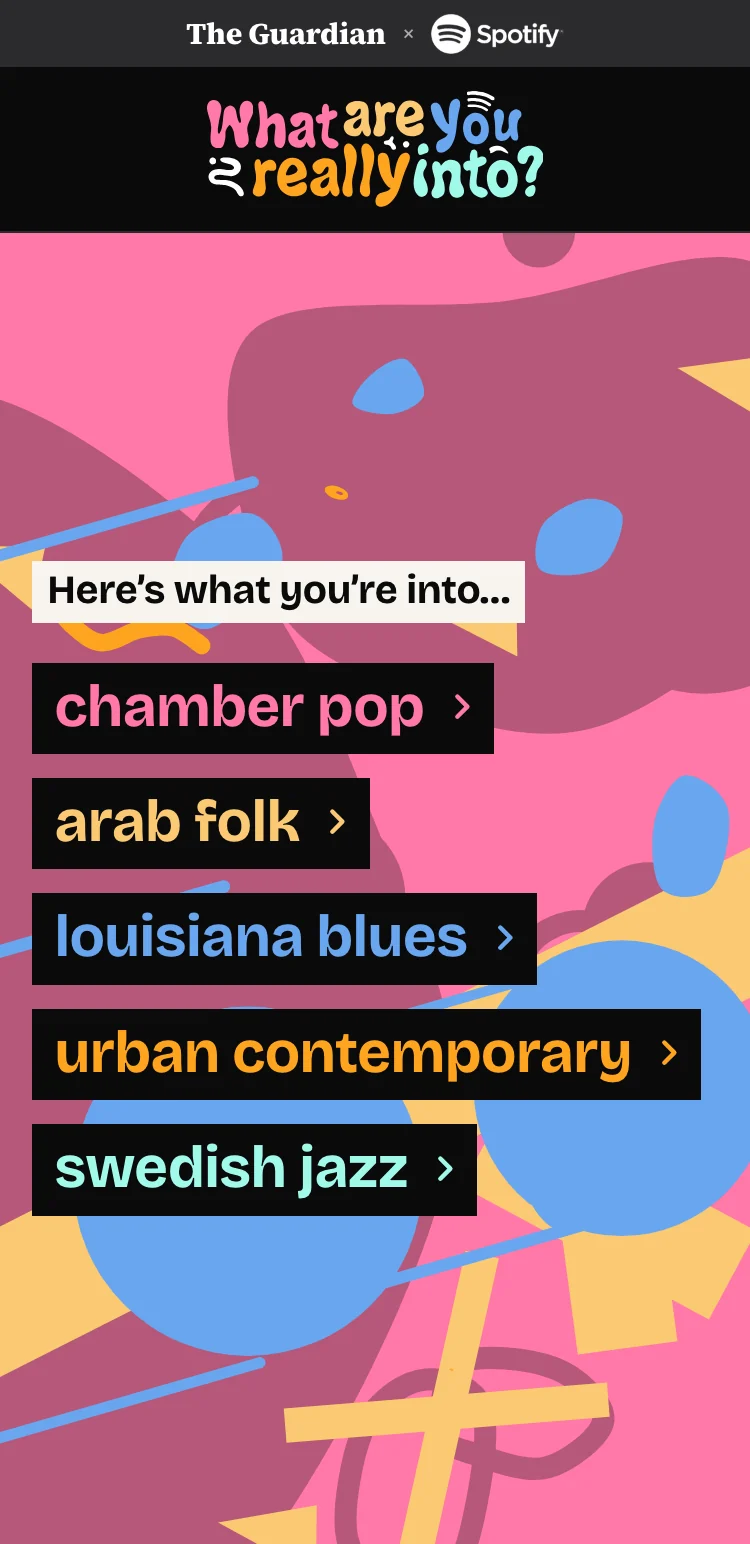
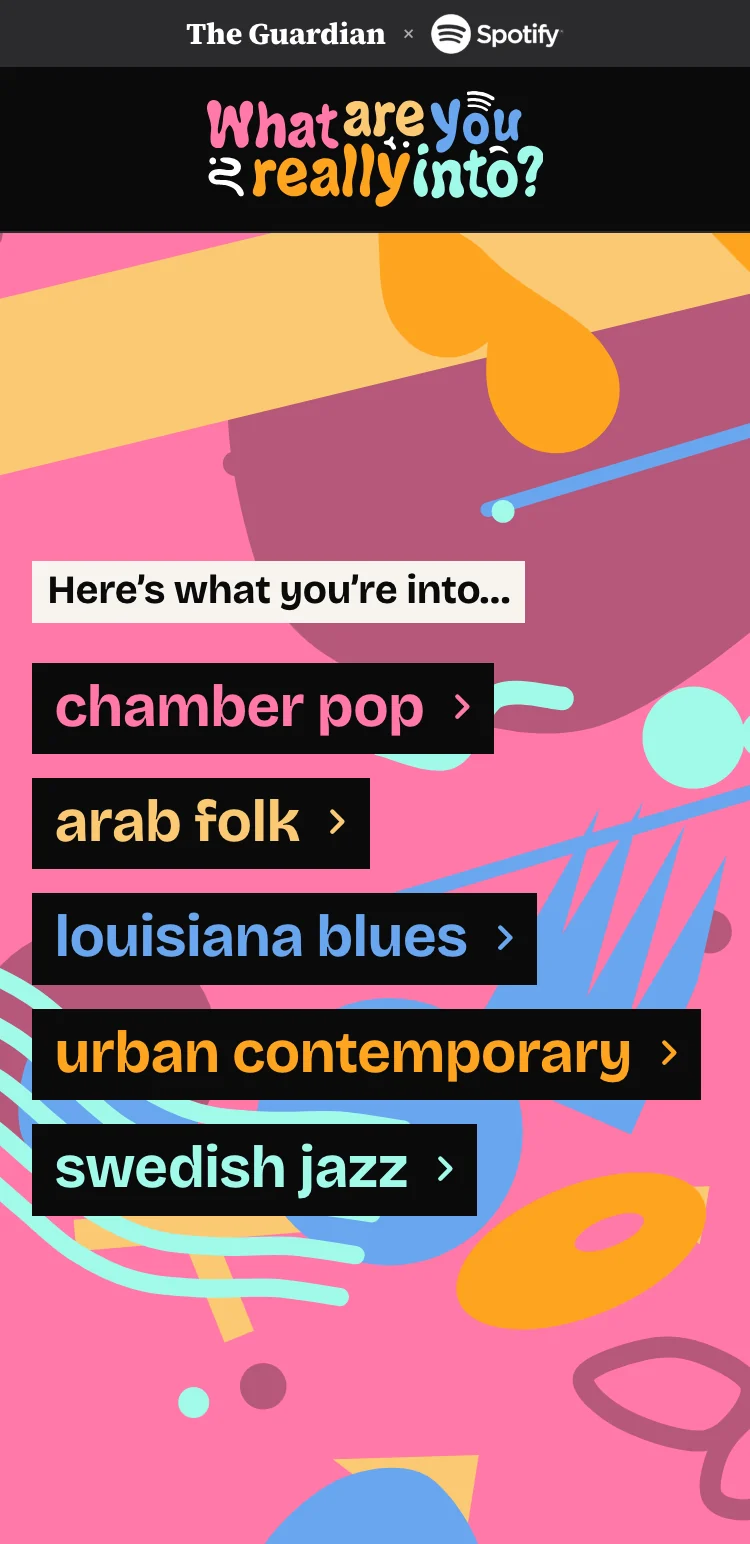
Add files via upload

diff --git a/index.html b/index.html
@@ -383,10 +383,6 @@ setTimeout(function(){ document.documentElement.setAttribute('data-dc-ready','')
      html[data-smart-side] only while Smart is on screen (for the shared nav). */
   [data-role="cv-bg"][data-smart="true"] { transition:opacity 500ms ease, background-color 600ms ease !important; }
   html[data-smart-bg="zurich"] [data-role="cv-bg"][data-smart="true"] { background:#262e4a !important; }
-  /* AKQA on tablets: the pale centre read as white on a bright iPad screen, so a touch more blue */
-  @media (min-width: 701px) and (max-width: 1194px), (min-width: 701px) and (max-width: 1366px) and (orientation: portrait) {
-    [data-role="cv-bg"][data-sec="akqa"] { background: radial-gradient(circle at 50% 46%, #DDEBFA 0%, #CFE0F4 35%, #B9CDE8 100%) !important; }
-  }
   /* iPad: a long press on any image, video or scene (intro bubbles, 3D, stills) opens no save-image menu and selects nothing */
   img, picture, video, canvas, svg, image-slot, iframe,
   [data-role="cv-imggroup"], [data-role="cv-stillbox"], [data-role="cv-approach"], [data-role="cv-bg"] { -webkit-touch-callout: none; -webkit-user-select: none; user-select: none; -webkit-tap-highlight-color: transparent; }
@@ -475,7 +471,7 @@ setTimeout(function(){ document.documentElement.setAttribute('data-dc-ready','')
           <sc-if value="{{ e.wide3 }}" hint-placeholder-val="{{ false }}">
             <div data-role="cv-gu3d" style="position:absolute; left:0; right:0; top:0; bottom:0; z-index:2; transform:translateX({{ e.images.0.dx }}); transition:transform 820ms cubic-bezier(.3,0,.2,1)">
               <sc-if value="{{ e.gu3dNear }}" hint-placeholder-val="{{ false }}">
-                <iframe tabindex="-1" ref="{{ e.gu3dRef }}" src="./guardian.html?embed=1&v=15" title="The Guardian x Spotify app screens in 3D" loading="eager" allowtransparency="true" style="width:100%; height:100%; border:0; display:block; background:transparent; touch-action:none"></iframe>
+                <iframe tabindex="-1" ref="{{ e.gu3dRef }}" src="./guardian.html?embed=1&v=16" title="The Guardian x Spotify app screens in 3D" loading="eager" allowtransparency="true" style="width:100%; height:100%; border:0; display:block; background:transparent; touch-action:none"></iframe>
               </sc-if>
             </div>
           </sc-if>
@@ -677,21 +673,21 @@ const DATA = [
     link: "https://nespresso.paultinker.uk/", linkLabel: "Discover more", slot: "design system components"
   },
   {
-    themeColor: "#22503F", idKey: 3, year: "2016", short: "The Guardian", company: "The Guardian", title: "Designer & Art Director", imageCount: 3, bg: "radial-gradient(circle at 50% 50%, #2D6253 0%, #1A3E33 100%)", textColor: "#F7D0D5", descColor: "#F7D0D5", navLinkColor: "#F7D0D5", navBg: "#F7D0D5", navTextColor: "#16332B", float: true, blobs: false, blobColor: "oklch(0.74 0.11 155)", blobScale: 1.8, blobRightScale: 2.6,
+    themeColor: "#077a60", idKey: 3, year: "2016", short: "The Guardian", company: "The Guardian", title: "Designer & Art Director", imageCount: 3, bg: "#077a60", textColor: "#FFFFFF", descColor: "#FFFFFF", navLinkColor: "#FFFFFF", navBg: "#F7D0D5", navTextColor: "#16332B", float: true, blobs: false, blobColor: "oklch(0.74 0.11 155)", blobScale: 1.8, blobRightScale: 2.6,
     meta: "2016",
     desc: "Art directed an interactive digital campaign in partnership with Spotify for The Guardian to promote Discover Weekly, generating personalised musical footprints, bespoke genre catalogues, and custom social media assets that attracted 40,000 visitors over four weeks.",
-    link: null, linkLabel: null, slot: "The Guardian work"
+    link: "https://guardian.paultinker.uk/", linkLabel: "Discover more", slot: "The Guardian work"
   },
   {
     themeColor: "#D9C6EC", idKey: 2, year: "2012", short: "Agencies", company: "Various agencies", title: "Senior Designer & Art Director", imageCount: 1, dark: false,
     bg: "radial-gradient(70% 55% at 8% 12%, #8FBEFF 0%, rgba(143,190,255,0) 62%), radial-gradient(55% 45% at 30% 6%, #A9CCFF 0%, rgba(169,204,255,0) 60%), radial-gradient(45% 40% at 4% 52%, #9BD0FF 0%, rgba(155,208,255,0) 65%), radial-gradient(60% 60% at 46% 34%, #A9C6F7 0%, rgba(169,198,247,0) 62%), radial-gradient(70% 70% at 92% 16%, #A98BD9 0%, rgba(169,139,217,0) 60%), radial-gradient(60% 55% at 84% 96%, #D46BD0 0%, rgba(212,107,208,0) 58%), radial-gradient(90% 80% at 62% 78%, #D9C6EC 0%, rgba(217,198,236,0) 70%), linear-gradient(150deg, #E6CDEA 0%, #D8C8EE 55%, #C9B4E4 100%)", navBg: "#E3D3F0",
     meta: "2012–2017", videoSrc: true,
     desc: "Art direction and design across digital campaigns, apps, and video for agencies including Imagination, Razorfish, Isobar, and Ogilvy. Working with these teams elevated my craft as a designer and established the foundations of my approach to design systems and platform scaling.",
-    link: null, linkLabel: null, slot: "agency showreel video", descColor: "#000000"
+    link: "https://earlier.paultinker.uk/", linkLabel: "Discover more", slot: "agency showreel video", descColor: "#000000"
   },
   {
-    themeColor: "#E4F0FB", idKey: "akqa", year: "2008", short: "AKQA", company: "AKQA", title: "Senior Designer", imageCount: 4, evenGrid: true, dark: false,
-    bg: "radial-gradient(circle at 50% 46%, #EBF6FF 0%, #EBF6FF 20%, #DBE8F7 62%, #CBDAEC 100%)", navBg: "#AFC3DD",
+    themeColor: "#A9C6F0", idKey: "akqa", year: "2008", short: "AKQA", company: "AKQA", title: "Senior Designer", imageCount: 4, evenGrid: true, dark: false,
+    bg: "radial-gradient(circle at 50% 46%, #DCEBFF 0%, #C9DEFB 22%, #A9C6F0 62%, #86A9DD 100%)", navBg: "#AFC3DD",
     meta: "2010–2012",
     desc: "Worked across global digital products and campaigns for brands including Nissan, NatWest and Dorling Kindersley. Delivered apps, websites and interactive experiences. Awards: Apple iPad App of the Week, FWA Site of the Day, Lovie Awards, Webby Awards.",
     link: null, linkLabel: null, slot: "AKQA campaign work"
@@ -1418,9 +1414,9 @@ class Component extends DCLogic {
         introDx: on ? "0px" : (i < active ? "calc(-100vw - 100%)" : "calc(100vw + 100%)"),
         stillOn: stills && !!STILLS[d.short],
         stillName: (STILLS[d.short] || [""])[0],
-        stillSrc: STILLS[d.short] ? "./assets/mobile/" + STILLS[d.short][0] + ".webp?v=13" : "",
+        stillSrc: STILLS[d.short] ? "./assets/mobile/" + STILLS[d.short][0] + ".webp?v=14" : "",
         // AKQA: the upright capture frames the iPad larger, so it is used sideways too
-        stillLand: STILLS[d.short] ? "./assets/mobile/" + STILLS[d.short][0] + (STILLS[d.short][0] === "akqa" ? "" : "-land") + ".webp?v=13" : "",
+        stillLand: STILLS[d.short] ? "./assets/mobile/" + STILLS[d.short][0] + (STILLS[d.short][0] === "akqa" ? "" : "-land") + ".webp?v=14" : "",
         stillAlt: STILLS[d.short] ? STILLS[d.short][1] : "",
         blobLeftPx: ((this.state.mx || 0) * 26).toFixed(1) + "px",
         blobLeftPy: ((this.state.my || 0) * 16).toFixed(1) + "px",

diff --git a/guardian.html b/guardian.html
@@ -28,7 +28,7 @@ try {
 <link rel="modulepreload" href="https://cdn.jsdelivr.net/npm/three@0.184.0/build/three.module.js" crossorigin>
 <link rel="modulepreload" href="https://cdn.jsdelivr.net/npm/three@0.184.0/examples/jsm/loaders/SVGLoader.js" crossorigin>
 <link rel="modulepreload" href="https://cdn.jsdelivr.net/npm/three@0.184.0/examples/jsm/environments/RoomEnvironment.js" crossorigin>
-<link rel="preload" as="script" href="guardian-scene.js?v=12">
+<link rel="preload" as="script" href="guardian-scene.js?v=13">
 <link rel="preload" as="image" fetchpriority="high" href="uploads/spotify-1.webp?v=11">
 <link rel="preload" as="image" fetchpriority="high" href="uploads/spotify-2.webp?v=11">
 <link rel="preload" as="image" fetchpriority="high" href="uploads/spotify-3.webp?v=11">
@@ -52,7 +52,7 @@ window.CVRES = function (p) {
 </head>
 <body>
 <guardian-scene-copy background="transparent" parallax="1" float-speed="1"></guardian-scene-copy>
-<script src="guardian-scene.js?v=12"></script>
+<script src="guardian-scene.js?v=13"></script>
 <script>
   if (new URLSearchParams(location.search).has('embed') || parent !== window) {
     const s = document.querySelector('guardian-scene-copy');
